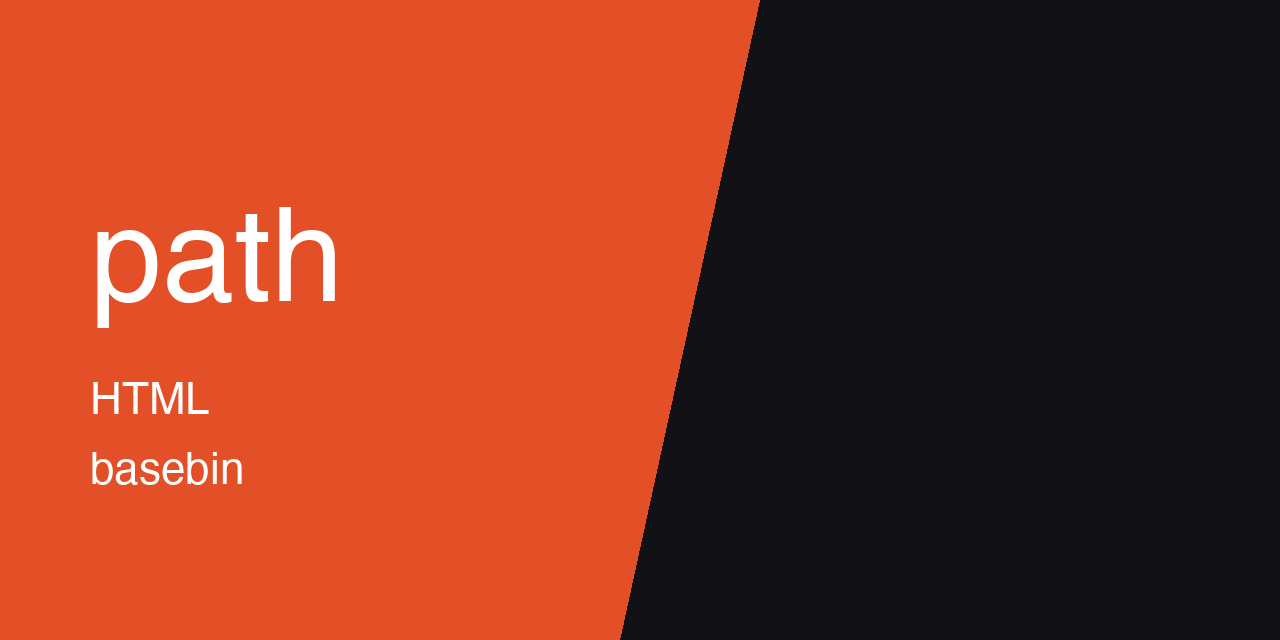
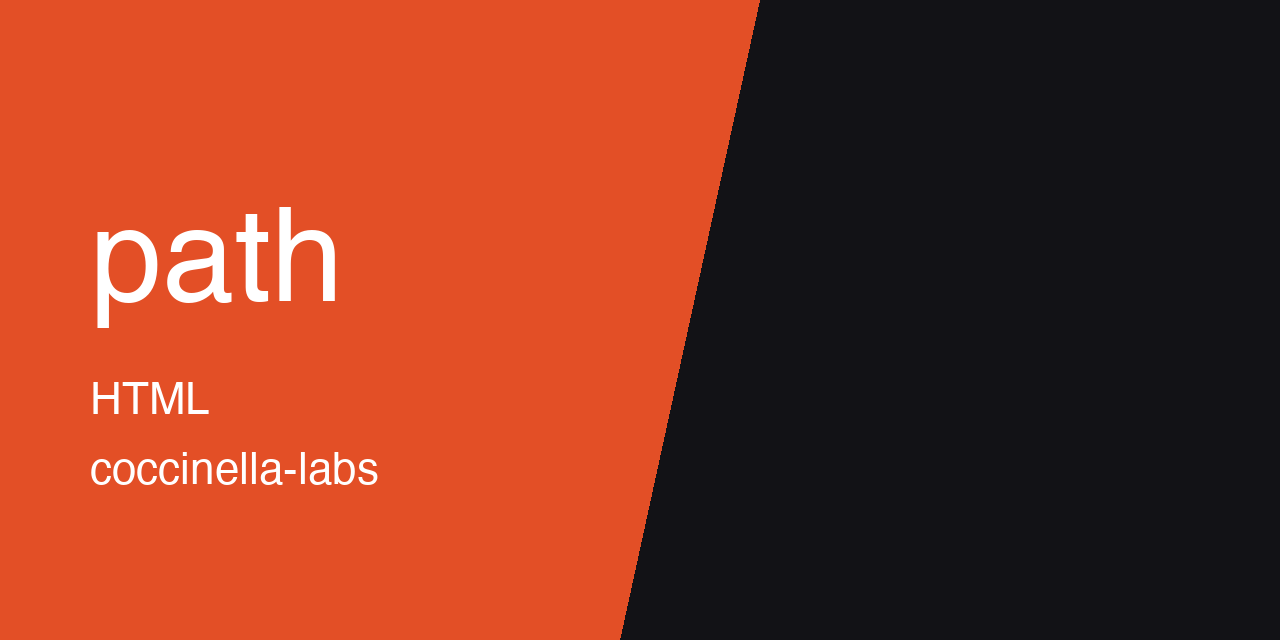
[docs] move thumbnail to coccinella-labs

Changed region(s): [[0.0625, 0.7188, 0.3125, 0.7812]]

diff --git a/README.md b/README.md
@@ -1,5 +1,5 @@
 <p align="center">
-  <img src="https://raw.githubusercontent.com/basebin/path/main/.github/assets/thumbnail.png" alt="path" width="100%">
+  <img src="https://raw.githubusercontent.com/Coccinella-Labs/path/main/.github/assets/thumbnail.png" alt="path" width="100%">
 </p>
 
 <p align="center">
